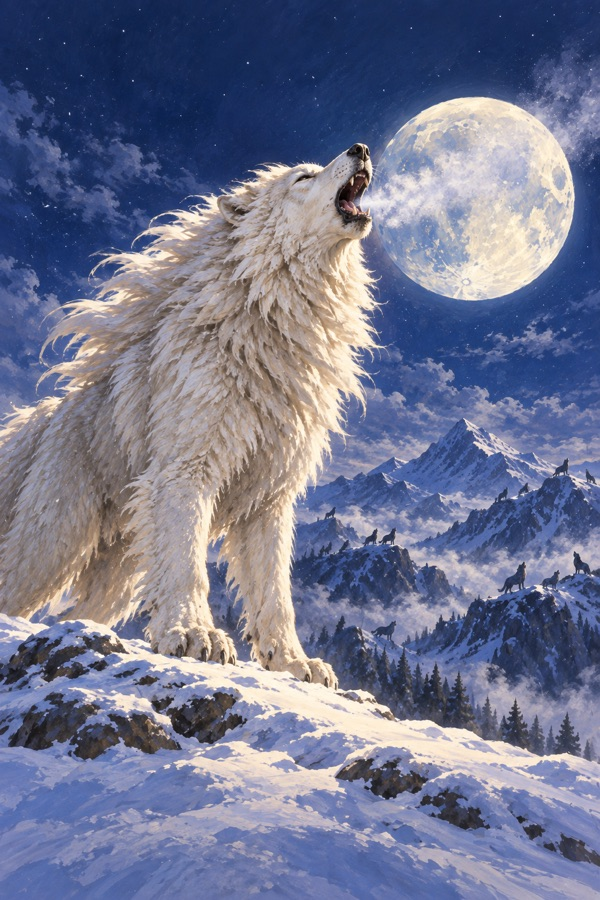
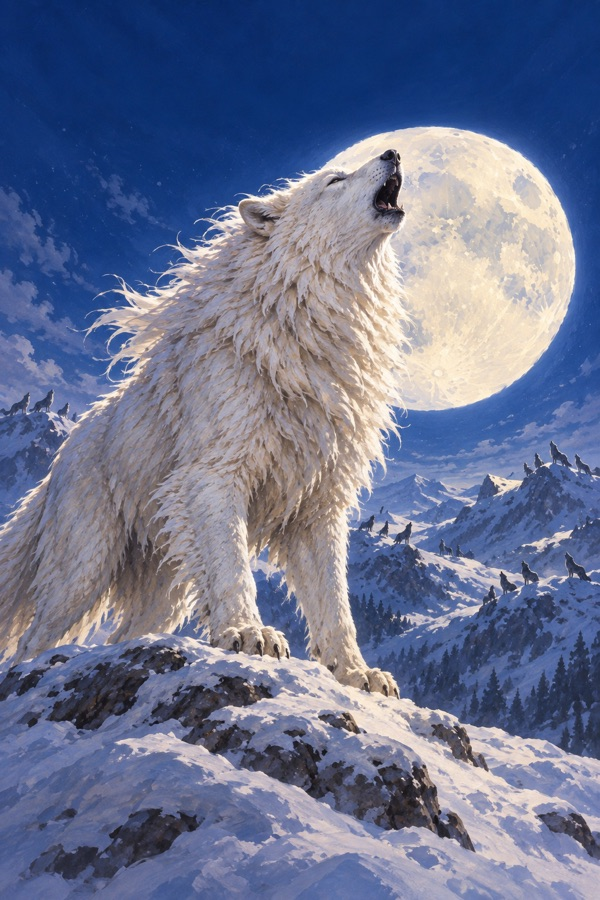
Clarion repainted without the breath plume
Claude-Session: https://claude.ai/code/session_01Pmyc6yiZLtHJ2HnL9joEuN

diff --git a/animal_kingdom/web/static/art.js b/animal_kingdom/web/static/art.js
@@ -17,7 +17,7 @@ export const CROP = {
   eon: [.6, .33, .7], ember: [.55, .3, .75], aurum: [.52, .3, .8], omen: [.5, .42, .75],
   dire_wolf: [.65, .3, .6], dingo: [.7, .27, .6], fox: [.55, .45, .8], african_wild_dog: [.7, .3, .55], dog: [.66, .3, .6],
   pup: [.55, .36, .72], outrider: [.62, .36, .75], red_wolf: [.62, .3, .65], hyena: [.5, .38, .6], bush_dog: [.64, .33, .6],
-  lobo: [.6, .25, .62], raksha: [.64, .33, .6], clarion: [.5, .28, .7], alpha: [.56, .36, .8],
+  lobo: [.6, .25, .62], raksha: [.64, .33, .6], clarion: [.55, .27, .7], alpha: [.56, .36, .8],
 };
 export const hasArt = id => id in CROP;
 export const artUrl = id => `/static/art/${id}.jpg`;
